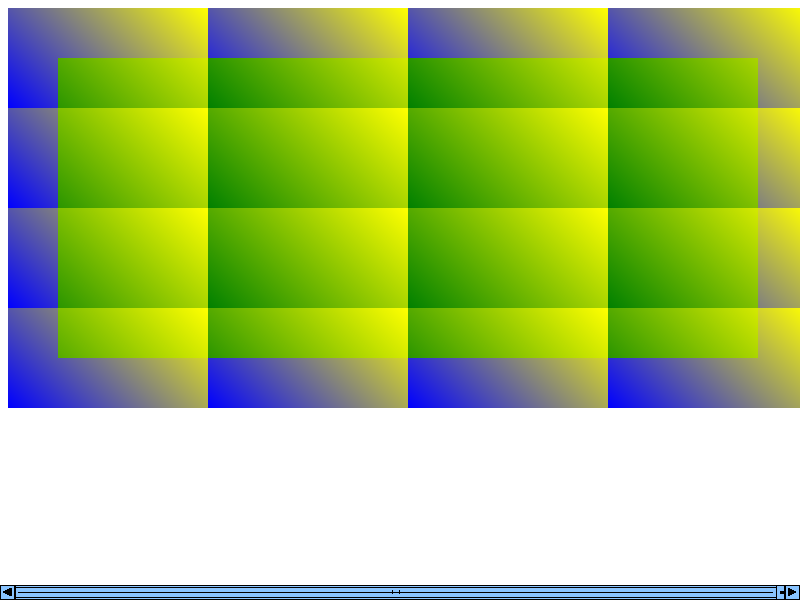
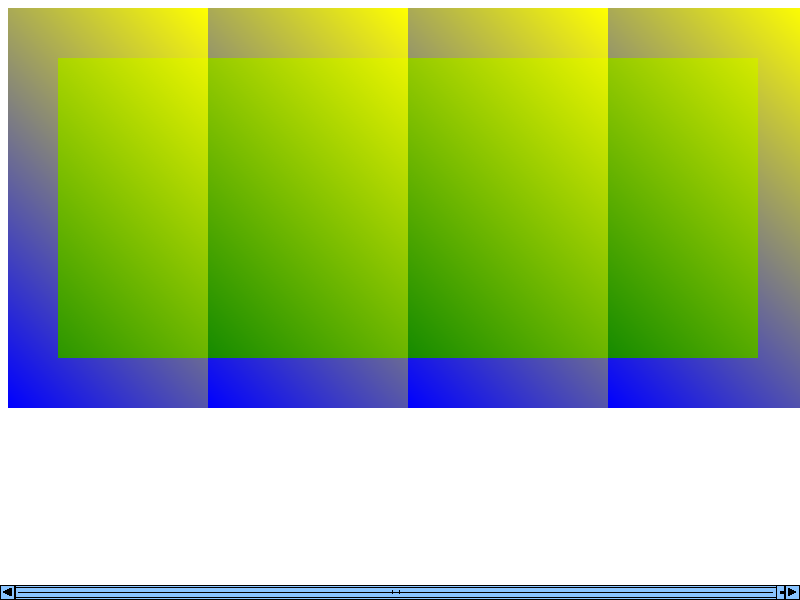
Fix background-size auto when no intrinsic size
According to the spec,
https://drafts.csswg.org/css-backgrounds-3/#background-size,
a background-size of "auto" with no intrinsic ratio or size
should use 100% for the auto value.

Instead we were using the positioning area's intrinsic ratio.
Fix it.

R=fmalita@chromium.org
BUG=828842

Cq-Include-Trybots: master.tryserver.blink:linux_trusty_blink_rel;master.tryserver.chromium.linux:linux_layout_tests_slimming_paint_v2
Commit-Queue: Stephen Chenney <schenney@chromium.org>
Cr-Commit-Position: refs/heads/master@{#548596}

diff --git a/.upstream-WebKit/LayoutTests/css3/background/background-auto-no-intrinsic-expected.html b/.upstream-WebKit/LayoutTests/css3/background/background-auto-no-intrinsic-expected.html
@@ -1,0 +1,23 @@
+<!DOCTYPE html>
+<style>
+  div {
+    background-image: radial-gradient(red, yellow, green);
+    background-repeat: no-repeat;
+    border: solid 1px black;
+    margin: 10px;
+  }
+  .horizontal {
+    background-size: 100% 50%;
+    width: 200px;
+    height: 100px;
+  }
+  .vertical {
+    background-size: 50% 100%;
+    width: 100px;
+    height: 200px;
+  }
+</style>
+<div class="horizontal">
+</div>
+<div class="vertical">
+</div>

diff --git a/.upstream-WebKit/LayoutTests/css3/background/background-auto-no-intrinsic.html b/.upstream-WebKit/LayoutTests/css3/background/background-auto-no-intrinsic.html
@@ -1,0 +1,23 @@
+<!DOCTYPE html>
+<style>
+  div {
+    background-image: radial-gradient(red, yellow, green);
+    background-repeat: no-repeat;
+    border: solid 1px black;
+    margin: 10px;
+  }
+  .horizontal {
+    background-size: auto 50%;
+    width: 200px;
+    height: 100px;
+  }
+  .vertical {
+    background-size: 50% auto;
+    width: 100px;
+    height: 200px;
+  }
+</style>
+<div class="horizontal">
+</div>
+<div class="vertical">
+</div>

diff --git a/.upstream-WebKit/Source/core/paint/BackgroundImageGeometry.cpp b/.upstream-WebKit/Source/core/paint/BackgroundImageGeometry.cpp
@@ -87,7 +87,11 @@ LayoutSize CalculateFillTileSize(const LayoutBoxModelObject& obj,
       // If one of the values is auto we have to use the appropriate
       // scale to maintain our aspect ratio.
       if (layer_width.IsAuto() && !layer_height.IsAuto()) {
-        if (image_intrinsic_size.Height()) {
+        if (image->ImageHasRelativeSize()) {
+          // Spec says that auto should be 100% in the absence of
+          // an intrinsic ratio or size.
+          tile_size.SetWidth(positioning_area_size.Width());
+        } else if (image_intrinsic_size.Height()) {
           LayoutUnit adjusted_width = image_intrinsic_size.Width() *
                                       tile_size.Height() /
                                       image_intrinsic_size.Height();
@@ -96,7 +100,11 @@ LayoutSize CalculateFillTileSize(const LayoutBoxModelObject& obj,
           tile_size.SetWidth(adjusted_width);
         }
       } else if (!layer_width.IsAuto() && layer_height.IsAuto()) {
-        if (image_intrinsic_size.Width()) {
+        if (image->ImageHasRelativeSize()) {
+          // Spec says that auto should be 100% in the absence of
+          // an intrinsic ratio or size.
+          tile_size.SetHeight(positioning_area_size.Height());
+        } else if (image_intrinsic_size.Width()) {
           LayoutUnit adjusted_height = image_intrinsic_size.Height() *
                                        tile_size.Width() /
                                        image_intrinsic_size.Width();
